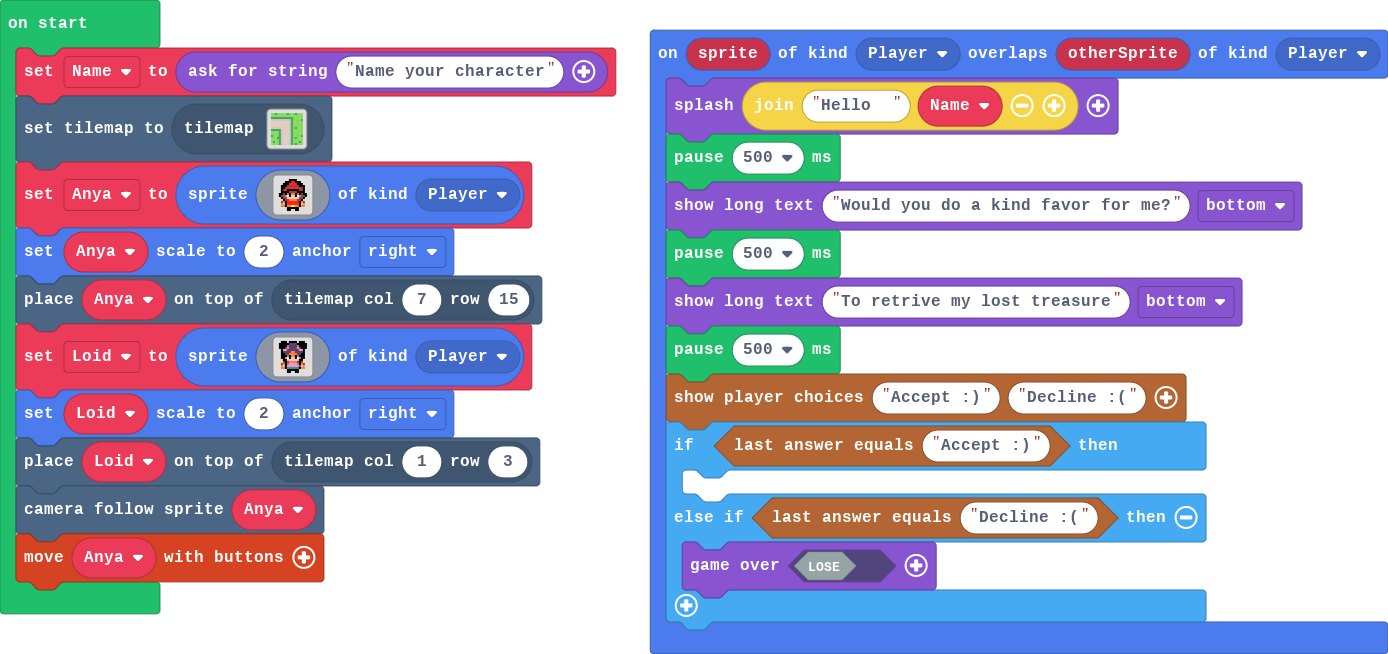
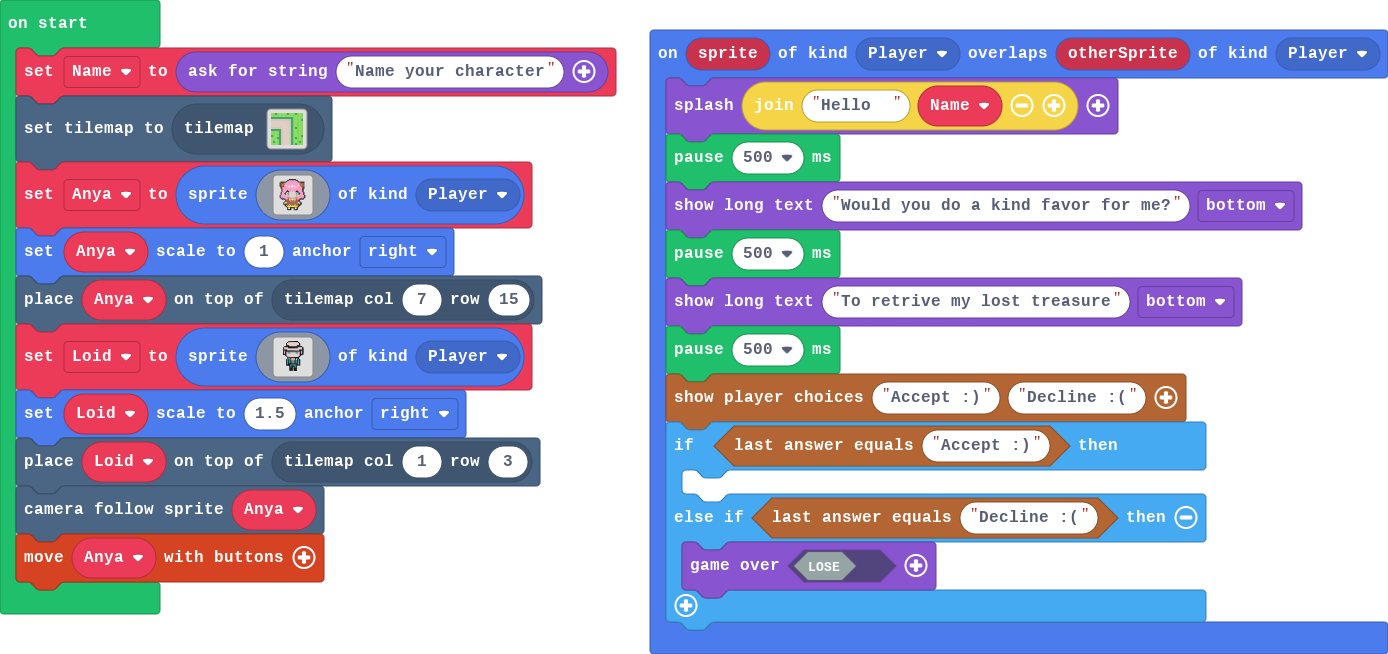
Changed sprites

diff --git a/main.ts b/main.ts
@@ -16,44 +16,76 @@ let Name = ""
 Name = game.askForString("Name your character")
 tiles.setCurrentTilemap(tilemap`level1`)
 let Anya = sprites.create(img`
-    . . . . . . f f f f . . . . . . 
-    . . . . f f f 2 2 f f f . . . . 
-    . . . f f f 2 2 2 2 f f f . . . 
-    . . f f f e e e e e e f f f . . 
-    . . f f e 2 2 2 2 2 2 e e f . . 
-    . . f e 2 f f f f f f 2 e f . . 
-    . . f f f f e e e e f f f f . . 
-    . f f e f b f 4 4 f b f e f f . 
-    . f e e 4 1 f d d f 1 4 e e f . 
-    . . f e e d d d d d d e e f . . 
-    . . . f e e 4 4 4 4 e e f . . . 
-    . . e 4 f 2 2 2 2 2 2 f 4 e . . 
-    . . 4 d f 2 2 2 2 2 2 f d 4 . . 
-    . . 4 4 f 4 4 5 5 4 4 f 4 4 . . 
-    . . . . . f f f f f f . . . . . 
-    . . . . . f f . . f f . . . . . 
+    .............fffffff..............
+    ...........ffbb3bbbbff............
+    ..........fb333b3b333bf...........
+    ....ffffffb33333333333bffffff.....
+    ...feeee53333333333333335eeee.....
+    ...feeeee333333333333333eeeee.....
+    ...fee5e31333333333333313e5ee.....
+    ...feeee33133131131333133eeee.....
+    ....feee333311311313133333eee.....
+    ....fe533333333333333333335ef.....
+    .....f333333333333333333333f......
+    .....f333333333333333333333f......
+    .....f33333f333333333f33333f......
+    .....f3333fff33d3d33fff3333f......
+    ....f3333fb16ddddddd16bf3333f.....
+    ....f333ff166ddddddd661ff333f.....
+    ....f3333f176ddddddd761f3333f.....
+    ...f333333d77ddddddd77d333333f....
+    ...f333333bdddddddddddb333333f....
+    ...f3333333b2ddddddd2b3333333f....
+    ....f3f33333bbbbbbbbb33333f3f.....
+    .....f.ff33ee5.151.5be33ff.f......
+    .........f3ee5221225ee3f..........
+    .........feeee5eee5eeeef..........
+    ........f5eeeeeeeeeeeee5f.........
+    .......fdd5eeeeeeeeeee5ddf........
+    .......fdeeeeeeeeeeeeeeedf........
+    ........ffeee5eeeee5eeeff.........
+    .........f5e5e5e5e5e5e5f..........
+    ..........f55555555555f...........
+    ...........fbbfffffbbf............
+    ...........f11f...f11f............
+    ...........ffff...ffff............
+    ..................................
     `, SpriteKind.Player)
-Anya.setScale(2, ScaleAnchor.Right)
+Anya.setScale(1, ScaleAnchor.Right)
 tiles.placeOnTile(Anya, tiles.getTileLocation(7, 15))
 let Loid = sprites.create(img`
-    . f f f . f f f f . f f f . 
-    f f f f f c c c c f f f f f 
-    f f f f b c c c c b f f f f 
-    f f f c 3 c c c c 3 c f f f 
-    . f 3 3 c c c c c c 3 3 f . 
-    . f c c c c 4 4 c c c c f . 
-    . f f c c 4 4 4 4 c c f f . 
-    . f f f b f 4 4 f b f f f . 
-    . f f 4 1 f d d f 1 4 f f . 
-    . . f f d d d d d d f f . . 
-    . . e f e 4 4 4 4 e f e . . 
-    . e 4 f b 3 3 3 3 b f 4 e . 
-    . 4 d f 3 3 3 3 3 3 c d 4 . 
-    . 4 4 f 6 6 6 6 6 6 f 4 4 . 
-    . . . . f f f f f f . . . . 
-    . . . . f f . . f f . . . . 
+    ......fffffffff.....
+    .....fdddddddddf....
+    ....fdddddddddddf...
+    ....fdddddddddddf...
+    ....fffdddddddfff...
+    ..fffffffffffffffff.
+    .fddddfffffffffddddf
+    .fdddddddddddddddddf
+    .ffffdddddddddddffff
+    .fbfffffffffffffffbf
+    .fdfbb66bbbbb66bbfdf
+    .fdfbd66ddddd66dbfdf
+    .fffbdddddddddddbfff
+    ...fbdddddddddddbf..
+    ....fbdddddddddbf...
+    .....fffffffffff....
+    .....f66f121f66f....
+    ....f6f6f121f1f6f...
+    ....f6f6f626f6f6f...
+    ....f6f6f666f6f6f...
+    ....f6f6f666f6f6f...
+    ....fbfffffffffbf...
+    ....ffff66666ffff...
+    .......f6fff6f......
+    .......f6f.f6f......
+    .......fff.fff......
+    .......fff.fff......
+    .......fff.fff......
+    ....................
+    ....................
     `, SpriteKind.Player)
-Loid.setScale(2, ScaleAnchor.Right)
+Loid.setScale(1.5, ScaleAnchor.Right)
 tiles.placeOnTile(Loid, tiles.getTileLocation(1, 3))
 scene.cameraFollowSprite(Anya)
 controller.moveSprite(Anya)
